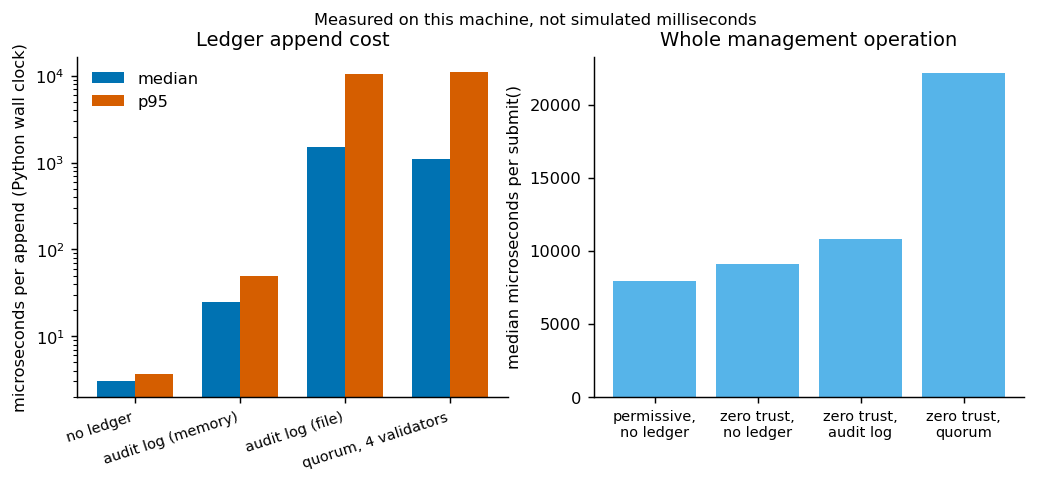
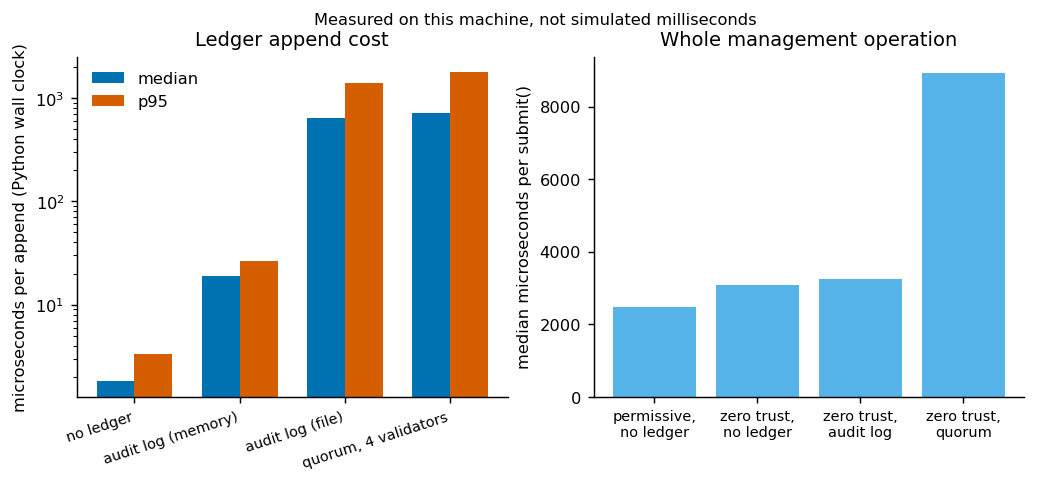
docs: regenerate recorded demo run against the LF-fixture commit

diff --git a/docs/results.md b/docs/results.md
@@ -1,6 +1,6 @@
 # Results ledger
 
-Run `demo`, generated 2026-11-26T02:07:18Z, code commit `92d039b4ba40ef69306f63d60123404784f59ffa` (working tree of code clean at run time). Regenerate with `sszt6g demo` (about a minute, CPU only). All tables below are produced from `runs/<id>/results.json`; per-job latencies, per-intent dispositions, labelled predictions and the manifest sit beside it.
+Run `demo`, generated 2026-11-26T02:38:13Z, code commit `fe91ea0d36b0d488fb912ef4de64e212a58f7abe` (working tree of code clean at run time). Regenerate with `sszt6g demo` (about a minute, CPU only). All tables below are produced from `runs/<id>/results.json`; per-job latencies, per-intent dispositions, labelled predictions and the manifest sit beside it.
 
 > **Read this first.** The paper is a simulation study whose code, data, labels and splits are not public and which does not define its comparators or endpoints. This repository therefore does **not reproduce** the paper's numbers. It runs an independent, seeded companion and reports what that companion measures, including results where the predictive planner is no better than a reactive one.
 
@@ -103,17 +103,17 @@ Hardware: Windows-10-10.0.26300-SP0, 12 logical CPUs, Python 3.10.11, no GPU. Th
 
 | Operation | n | median | p95 |
 |---|---:|---:|---:|
-| append_audit_log_file | 400 | 1509.4 | 10426.5 |
-| append_audit_log_memory | 400 | 24.8 | 49.7 |
-| append_none | 400 | 3.0 | 3.7 |
-| append_quorum_4_validators_memory | 400 | 1112.4 | 11077.9 |
-| evaluate_permissive | 3000 | 17.0 | 25.5 |
-| evaluate_zero_trust | 3000 | 315.8 | 4364.5 |
-| submit_permissive_audit_log | 100 | 9850.4 | 29450.7 |
-| submit_permissive_no_ledger | 100 | 7959.0 | 15424.5 |
-| submit_zero_trust_audit_log | 100 | 10790.9 | 26546.9 |
-| submit_zero_trust_no_ledger | 100 | 9107.2 | 21907.9 |
-| submit_zero_trust_quorum | 100 | 22175.8 | 52158.2 |
+| append_audit_log_file | 400 | 637.7 | 1390.2 |
+| append_audit_log_memory | 400 | 18.9 | 26.7 |
+| append_none | 400 | 1.8 | 3.3 |
+| append_quorum_4_validators_memory | 400 | 711.5 | 1786.0 |
+| evaluate_permissive | 3000 | 11.8 | 34.7 |
+| evaluate_zero_trust | 3000 | 326.1 | 955.5 |
+| submit_permissive_audit_log | 100 | 2447.3 | 4507.3 |
+| submit_permissive_no_ledger | 100 | 2466.8 | 5049.5 |
+| submit_zero_trust_audit_log | 100 | 3260.2 | 5488.8 |
+| submit_zero_trust_no_ledger | 100 | 3094.4 | 5197.9 |
+| submit_zero_trust_quorum | 100 | 8937.4 | 11775.4 |
 
 ## F. Forecaster vs persistence (held-out scenarios, one-step-ahead arrivals per 5 s interval)
 
